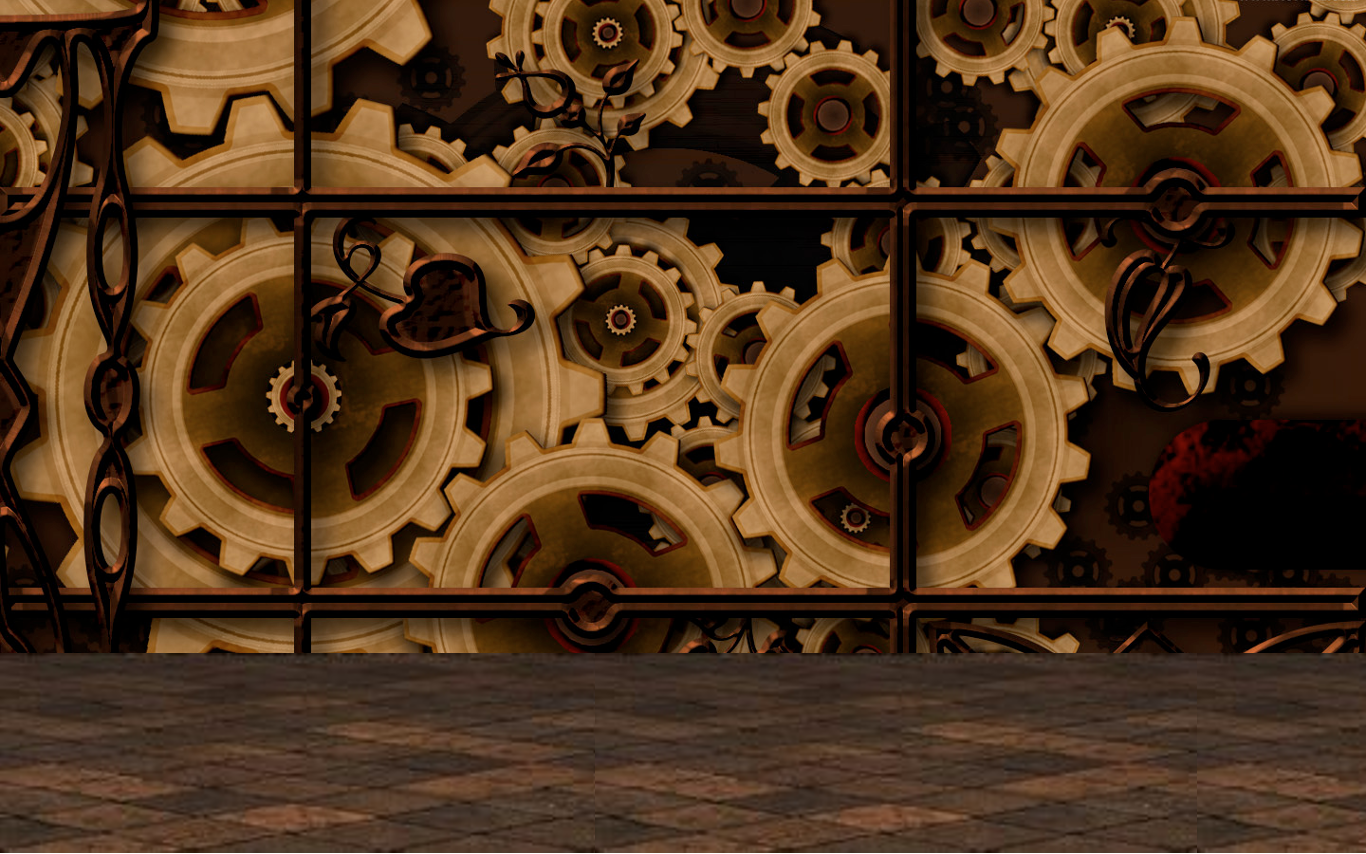
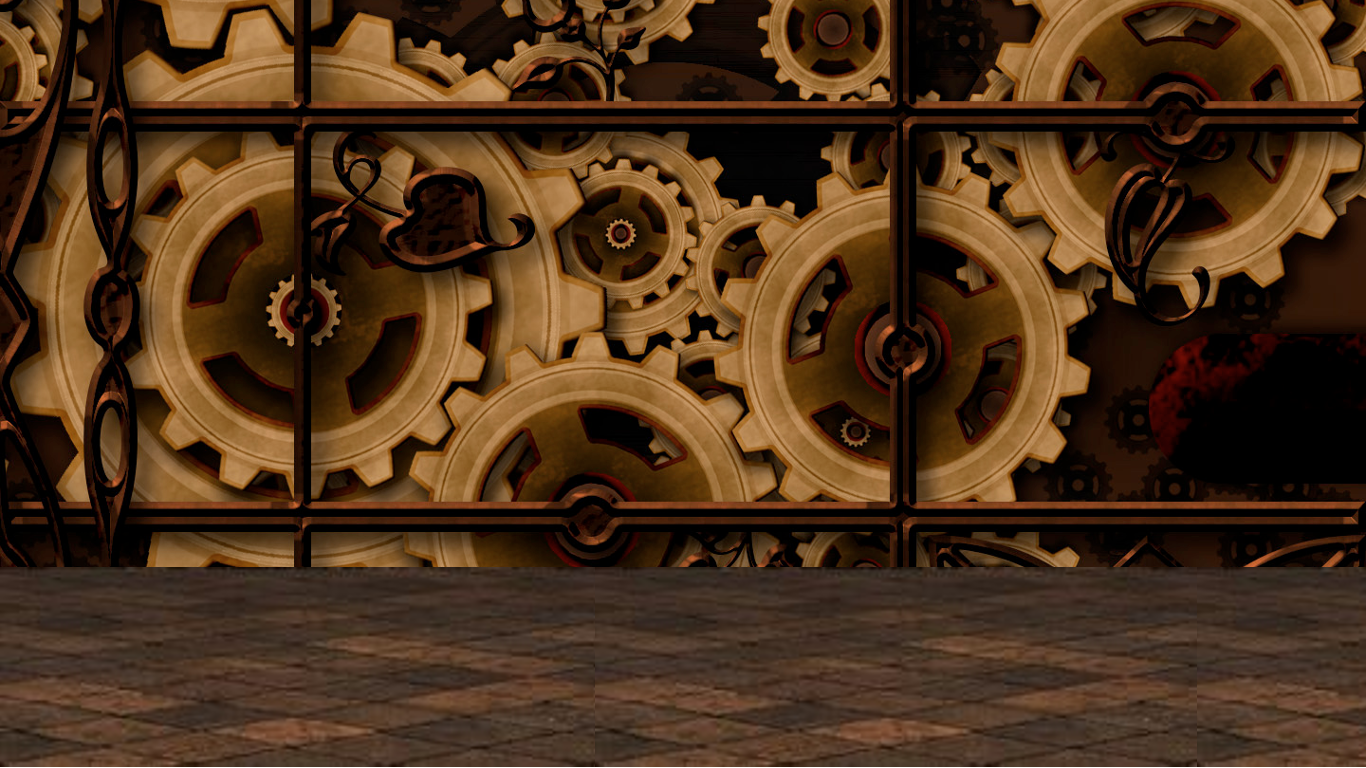
incremental changes

diff --git a/Enemy.cpp b/Enemy.cpp
@@ -11,12 +11,34 @@ Enemy::Enemy(Type type, Player& player):
     m_attackTimer(0),
     m_player(player),
     m_type(type),
-    m_health(MAX_HEALTH),
+    m_health(0),
     m_bg(sf::Vector2f(100.f,5)),
     m_fill(sf::Vector2f())
 {
-    //TODO type
-    m_sprite.setTexture(TextureManager::get(Bot1Sprite), {100, 212});
+    switch (m_type)
+    {
+        case DamagedEasy:
+        case Easy:
+            m_sprite.setTexture(TextureManager::get(Bot1Sprite), {100, 212});
+            m_health = 40;
+            m_attackDamage = 10;
+            break;
+        case Medium:
+            m_sprite.setTexture(TextureManager::get(Bot2Sprite), {100, 212});
+            m_health = 60;
+            m_attackDamage = 20;
+            break;
+        case Hard:
+            m_sprite.setTexture(TextureManager::get(Bot3Sprite), {100, 212});
+            m_health = 100;
+            m_attackDamage = 30;
+            break;
+    }
+
+    m_maxHealth = m_health;
+    if (m_type == DamagedEasy)
+        m_health = m_health / 2;
+
     m_sprite.setSpriteIndex(0);
     m_sprite.setScale(200.f/ 212.f);
 
@@ -145,13 +167,13 @@ void Enemy::update(float dt)
                                 m_position.y + d);
         m_bg.setPosition(m_sprite.getPosition() - sf::Vector2f(0, 200) );
         m_fill.setPosition(m_sprite.getPosition() - sf::Vector2f(0, 200));
-        m_fill.setSize(sf::Vector2f(m_health , 10));
+        m_fill.setSize(sf::Vector2f(getHealth() * 100, 10));
 
         m_attackTimer += dt;
         if (inbounds && m_attackTimer > 1.5f)
         {
             // Attack player
-            m_player.inflictDamage(10);
+            m_player.inflictDamage(m_attackDamage);
 
             m_attackTimer = 0;
         }
@@ -183,9 +205,9 @@ bool Enemy::toDestroy()
 }
 
 
-int Enemy::getHealth()
+float Enemy::getHealth()
 {
-    return m_health;
+    return static_cast<float>(m_health) / m_maxHealth;
 }
 
 

diff --git a/Player.cpp b/Player.cpp
@@ -14,11 +14,11 @@ Player::Player(GameObjectManager& gom) :
     m_gameObjects(gom),
     m_frame(0),
     m_flip(false),
+    m_redTimer(0),
     m_colliding(false)
 {
     m_sprite.setTexture(TextureManager::get(PlayerSprite), {120, 200});
     m_sprite.setSpriteIndex(0);
-    //m_sprite.setScale(200.f/ /**810.f**/540.f);
 }
 
 
@@ -108,6 +108,8 @@ void Player::inflictDamage(int damage)
     m_health -= damage;
     if (m_health <= 0)
         m_cb();
+    m_redTimer = 0.3f;
+    m_sprite.setColor(sf::Color::Red);
 }
 
 void Player::update(float dt)
@@ -118,6 +120,13 @@ void Player::update(float dt)
         {
             m_health += 5 * dt;
             m_health = std::min(MAX_HEALTH, m_health);
+        }
+
+        if (m_redTimer > 0)
+        {
+            m_redTimer -= dt;
+            if (m_redTimer <= 0)
+                m_sprite.setColor(sf::Color::White);
         }
 
         bool moving = false;
@@ -131,8 +140,7 @@ void Player::update(float dt)
                 else
                     ++m_currentAnimation;
                 m_attacking = true;
-                m_gameObjects.foreach([&](GameObject& g){
-                            if (g.getType() == EnemyObject) attackEnemy(static_cast<Enemy&>(g));});
+
             }
 
         }
@@ -188,7 +196,11 @@ void Player::update(float dt)
                 {
                     m_frame = 0;
                     if (m_attacking)
+                    {
+                        m_gameObjects.foreach([&](GameObject& g){
+                            if (g.getType() == EnemyObject) attackEnemy(static_cast<Enemy&>(g));});
                         m_attacking = false;
+                    }
                 }
             }
             m_sprite.setSpriteIndex(m_animationframe[m_currentAnimation][m_frame]);

diff --git a/SceneManager.cpp b/SceneManager.cpp
@@ -7,7 +7,7 @@ SceneManager::SceneManager()
     // Scene 1: Entrance
     decltype(SceneManifest::waves) waves;
     SceneManifest::EnemySwarm wave;
-    wave.emplace_back(Enemy::Easy, 2);
+    wave.emplace_back(Enemy::DamagedEasy, 2);
     waves.push_back(wave);
     m_scenes.emplace(Entrance, SceneManifest{
                     EntranceSceneBG,
@@ -22,46 +22,46 @@ SceneManager::SceneManager()
     wave.clear();
     wave.emplace_back(Enemy::Easy, 3);
     waves.push_back(wave);
-    
+
     // Wave 2
     wave.clear();
     wave.emplace_back(Enemy::Easy, 5);
     waves.push_back(wave);
-    
+
     // Wave 3
     wave.clear();
     wave.emplace_back(Enemy::Easy, 3);
     wave.emplace_back(Enemy::Medium, 1);
     waves.push_back(wave);
-    
+
     // Wave 4
     wave.clear();
     wave.emplace_back(Enemy::Easy, 2);
     wave.emplace_back(Enemy::Medium, 2);
     waves.push_back(wave);
-    
+
     // Wave 5
     wave.clear();
     wave.emplace_back(Enemy::Medium, 5);
     waves.push_back(wave);
-    
+
     // Wave 6
     wave.clear();
     wave.emplace_back(Enemy::Easy, 3);
     wave.emplace_back(Enemy::Hard, 1);
     waves.push_back(wave);
-    
+
     // Wave 7
     wave.clear();
     wave.emplace_back(Enemy::Medium, 2);
     wave.emplace_back(Enemy::Hard, 1);
     waves.push_back(wave);
-    
+
     // Wave 8
     wave.clear();
     wave.emplace_back(Enemy::Hard, 3);
     waves.push_back(wave);
-    
+
     m_scenes.emplace(Ruins, SceneManifest{
                     RuinSceneBG,
                     std::move(waves),

diff --git a/Enemy.h b/Enemy.h
@@ -12,6 +12,7 @@ class Enemy : public GameObject
 public:
     enum Type
     {
+        DamagedEasy,
         Easy,
         Medium,
         Hard
@@ -26,7 +27,7 @@ public:
     bool toDestroy() override;
 
     void setZ(float z);
-    int getHealth();
+    float getHealth();
 
     sf::FloatRect getGlobalBounds();
     float getZ();
@@ -46,6 +47,8 @@ private:
     int m_frame;
     Player& m_player;
     int m_health;
+    int m_maxHealth;
+    int m_attackDamage;
     GameObjectManager *m_gameObjects;
     sf::RectangleShape m_bg;
     sf::RectangleShape m_fill;

diff --git a/Constants.h b/Constants.h
@@ -14,7 +14,7 @@
 #define PLAYER_WIDTH        120.f
 #define PLAYER_VELOCITY     100.f
 #define ENEMY_VELOCITY      40.f
-#define LAND_APP_HEIGHT     100.f      /* Apparent height */
+#define LAND_APP_HEIGHT     200.f      /* Apparent height */
 #define LAND_SLOPE          -200.f / 300.f
 #define ANIM_FRAME_TIME     0.2f
 #define MAX_HEALTH          100.f

diff --git a/Game.cpp b/Game.cpp
@@ -27,6 +27,8 @@ Game::Game() :
     //Load Cutscenes
     TextureManager::load(PlayerSprite, "assets/playersprite.png");
     TextureManager::load(Bot1Sprite, "assets/enemy.png");
+    TextureManager::load(Bot2Sprite, "assets/enemy.png");
+    TextureManager::load(Bot3Sprite, "assets/enemy.png");
 
     m_window.setVerticalSyncEnabled(true);
 

diff --git a/HUD.cpp b/HUD.cpp
@@ -11,7 +11,7 @@ HUD::HUD(Player& player) :
 {
     m_text.setString("Health :");
     m_text.setFont(FontManager::get(DefaultFont));
-    m_text.setColor(sf::Color::Black);
+    m_text.setColor(sf::Color::White);
     m_text.setCharacterSize(20);
 
     m_bg.setSize(sf::Vector2f(100, 10));

diff --git a/SpriteSheet.cpp b/SpriteSheet.cpp
@@ -11,6 +11,11 @@ void SpriteSheet::setTexture(sf::Texture& texture, sf::Vector2i size)
     m_index = 0;
 }
 
+void SpriteSheet::setColor(sf::Color color)
+{
+    m_sprite.setColor(color);
+}
+
 void SpriteSheet::setPosition(float x, float y)
 {
     m_sprite.setPosition(x, y);

diff --git a/SpriteSheet.h b/SpriteSheet.h
@@ -13,6 +13,7 @@ public:
     void setScale(float s);
     void setFlip(bool flag);
     sf::FloatRect getGlobalBounds();
+    void setColor(sf::Color color);
 protected:
     void draw(sf::RenderTarget& target, sf::RenderStates states) const;
 private:

diff --git a/ResourceIdentifiers.h b/ResourceIdentifiers.h
@@ -12,7 +12,7 @@ enum TextureIdentifier
     PlayerSprite,
     Bot1Sprite,
     Bot2Sprite,
-    BotBossSpirte,
+    Bot3Sprite,
     Cutscene1,
     Cutscene2,
     Cutscene3

diff --git a/Player.h b/Player.h
@@ -46,6 +46,7 @@ private:
     bool m_colliding;
     GameObjectManager &m_gameObjects;
     bool m_flip;
+    float m_redTimer;
     std::function<void(void)> m_cb;
 };
 
